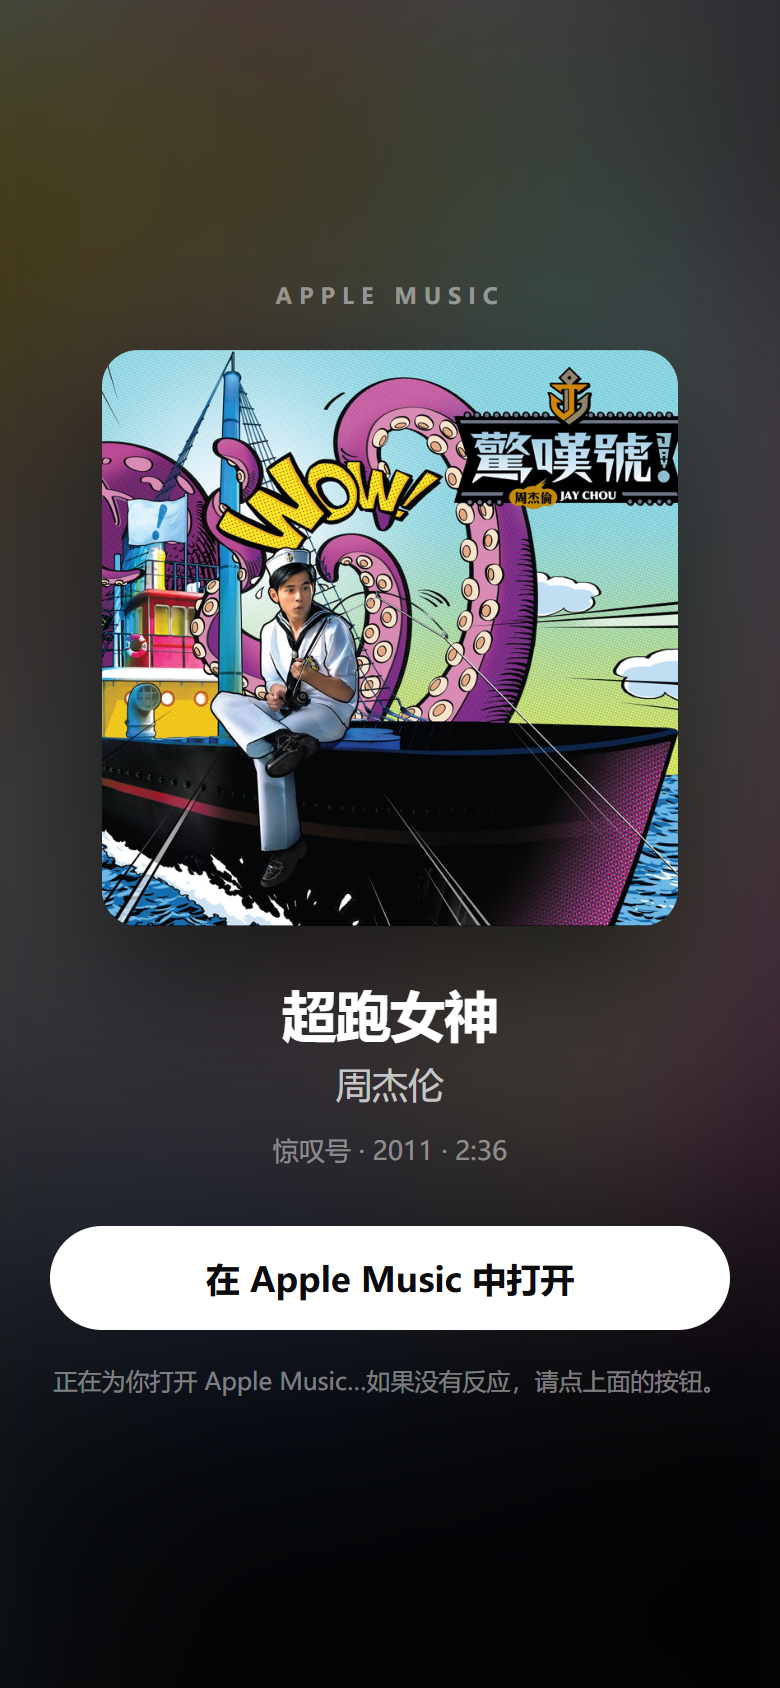
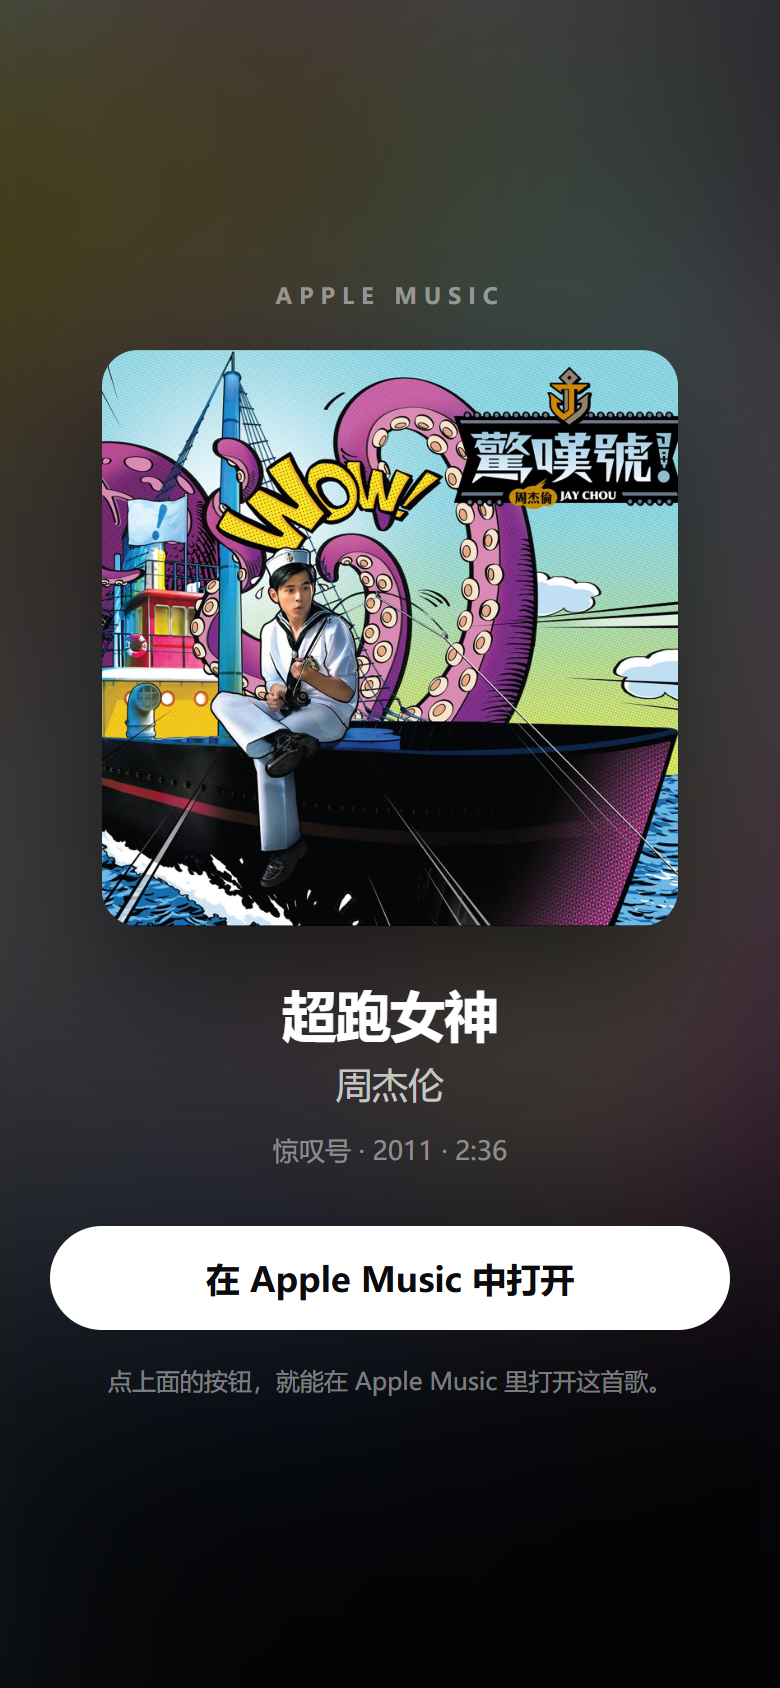
Add Apple Music share pages (MusicCard Web)

Changed region(s): [[0.0615, 0.8009, 0.9231, 0.8318]]

diff --git a/tools/build_site.py b/tools/build_site.py
@@ -266,6 +266,8 @@ SONG_TEMPLATE = """<!doctype html>
 <meta name="twitter:title" content="{title} - {artist}">
 <meta name="twitter:description" content="{meta}">
 <meta name="twitter:image" content="{base}s/{track_id}/og.jpg">
+<meta name="description" content="{title} - {artist} · {meta}">
+<link rel="image_src" href="{base}s/{track_id}/og.jpg">
 <link rel="canonical" href="{base}s/{track_id}/">
 <link rel="stylesheet" href="../../assets/style.css">
 </head>
@@ -279,12 +281,14 @@ SONG_TEMPLATE = """<!doctype html>
   <p class="artist">{artist}</p>
   <p class="meta">{meta}</p>
   <a class="button" href="{store_link}">在 Apple Music 中打开</a>
-  <p class="hint">正在为你打开 Apple Music…如果没有反应，请点上面的按钮。</p>
+  <p class="hint">点上面的按钮，就能在 Apple Music 里打开这首歌。</p>
 </main>
 </div>
 <script>
 (function () {{
-  if (window.location.hash === '#noauto') return;
+  // 默认不自动跳转，避免微信抓分享卡片时抓到 Apple 的页面；?auto=1 才自动打开
+  var query = window.location.search;
+  if (query.indexOf('auto=1') === -1) return;
   var target = document.querySelector('.song').getAttribute('data-redirect');
   if (!target) return;
   setTimeout(function () {{ window.location.replace(target); }}, 900);
@@ -310,7 +314,7 @@ INDEX_TEMPLATE = """<!doctype html>
 <header class="index__header">
   <p class="eyebrow">APPLE MUSIC</p>
   <h1>音乐卡片</h1>
-  <p class="index__lead">点开任意一首，会自动打开 Apple Music。</p>
+  <p class="index__lead">点开任意一首，就能在 Apple Music 里收听。</p>
 </header>
 <main class="grid">
 {cards}

diff --git a/tools/deploy_github.py b/tools/deploy_github.py
@@ -293,8 +293,7 @@ def main() -> int:
     site = enable_pages(token, owner, repo)
     print(f"REPO_URL=https://github.com/{owner}/{repo}", flush=True)
     print(f"SITE_URL={site}", flush=True)
-    if TOKEN_FILE.exists():
-        TOKEN_FILE.unlink()
+    # 保留授权缓存，方便这一轮反复改版重传；全部完成后手动删除
     return 0
 
 
